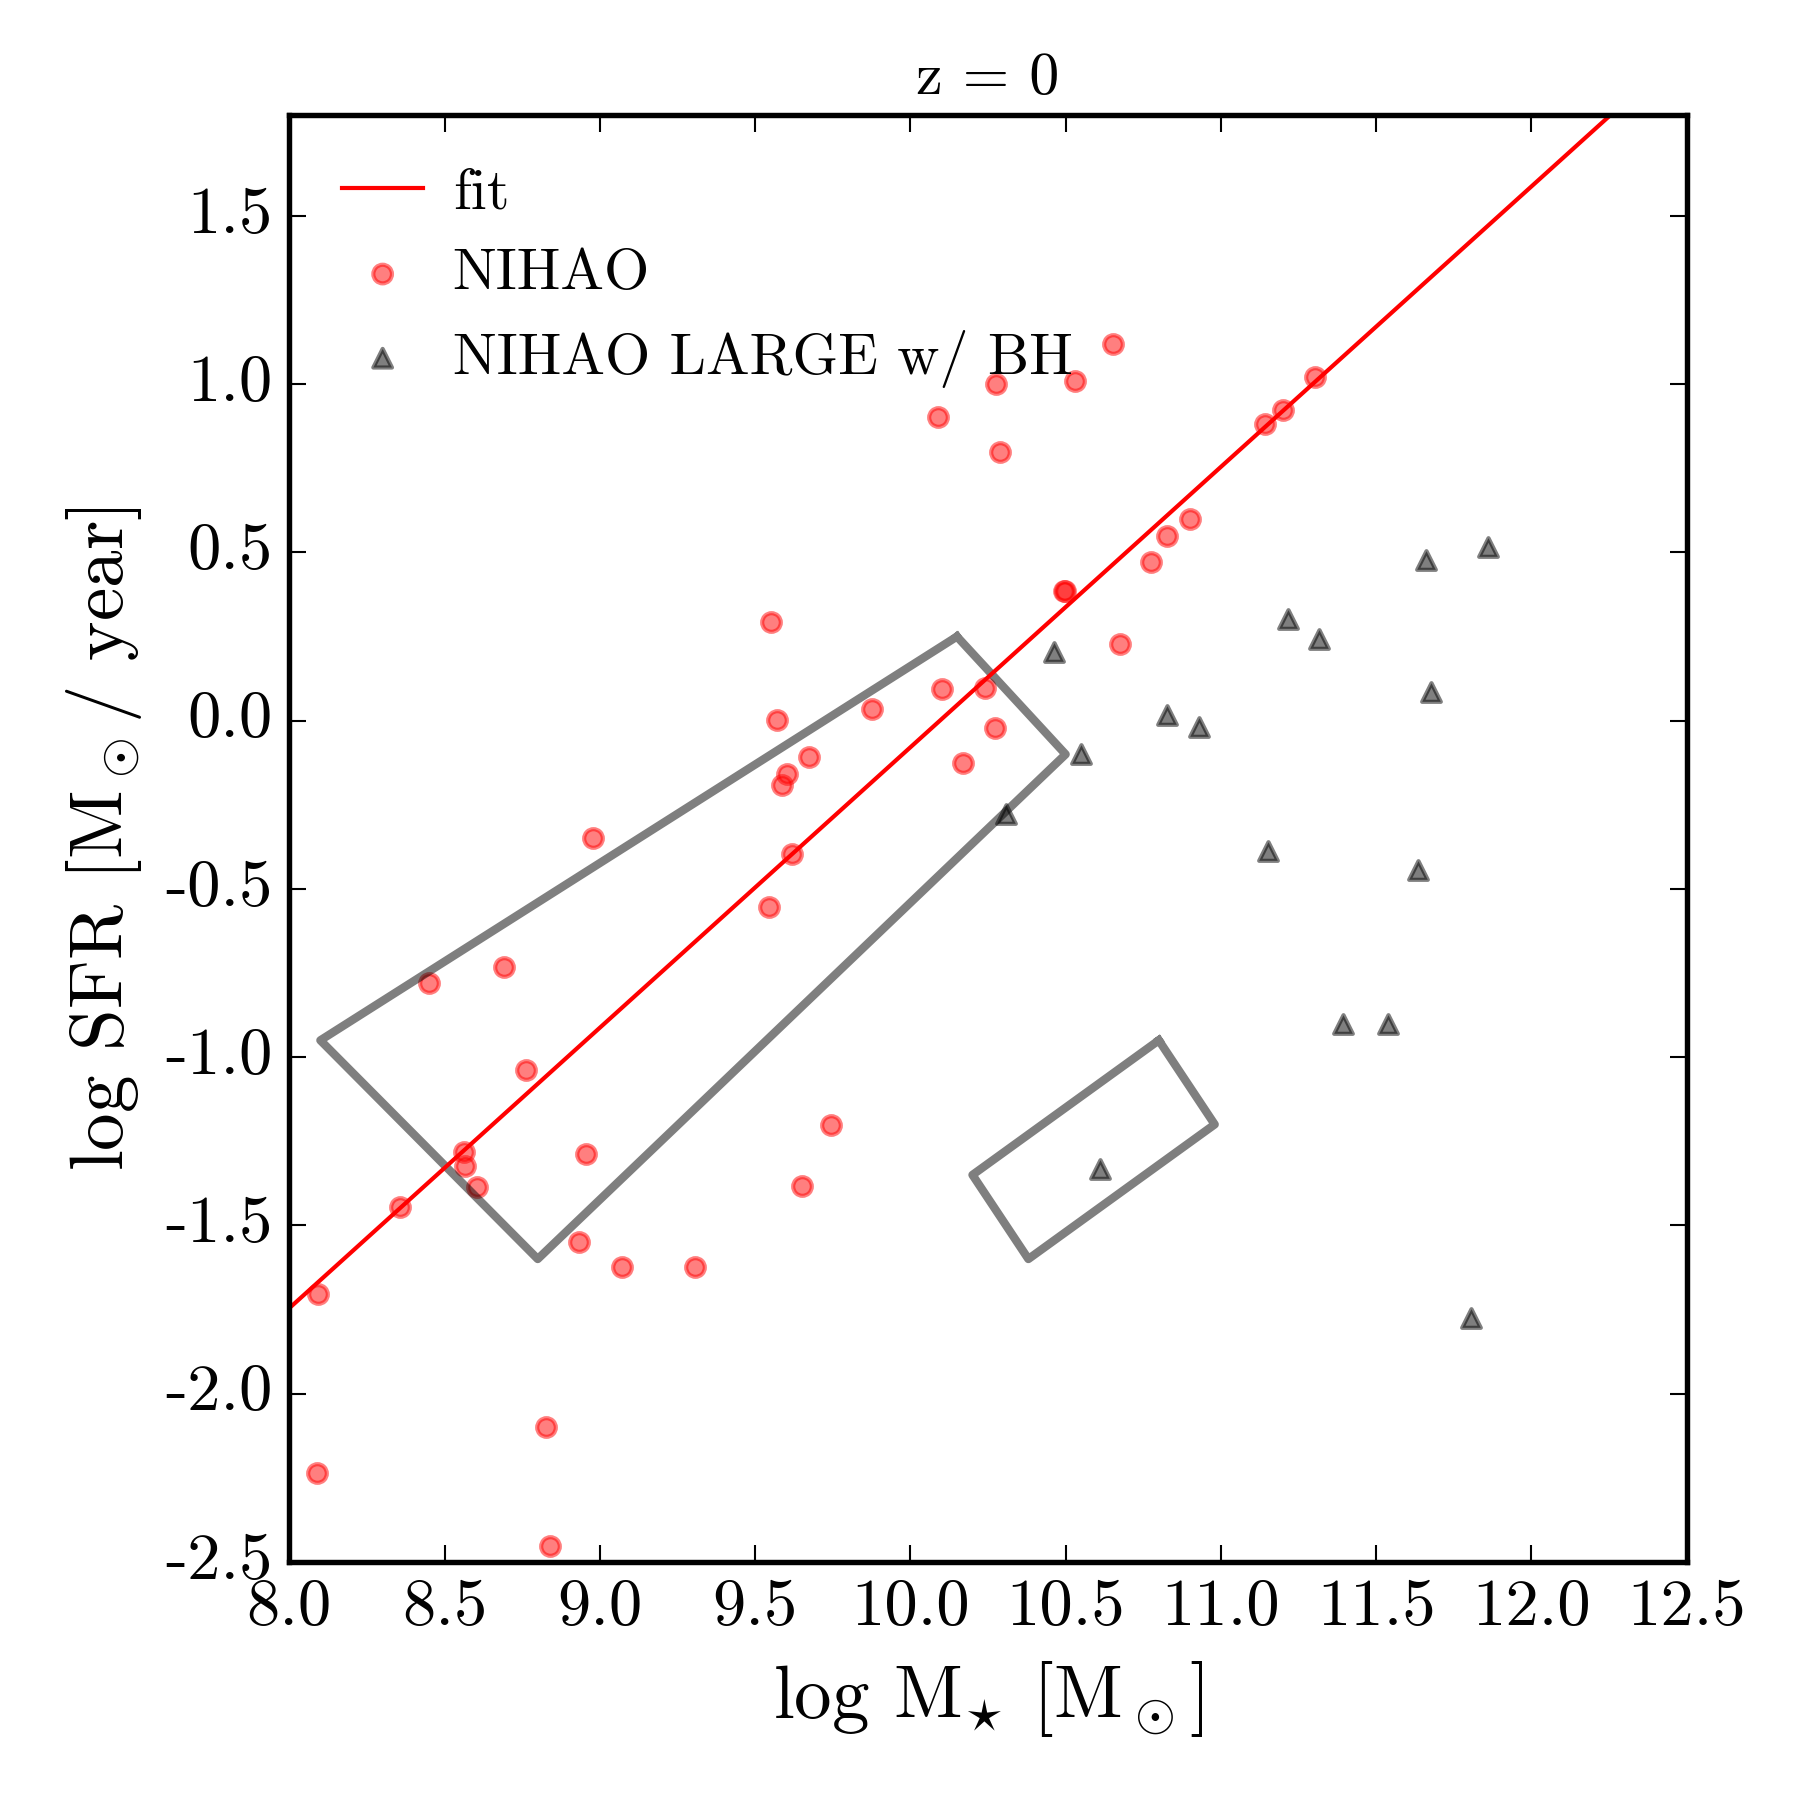
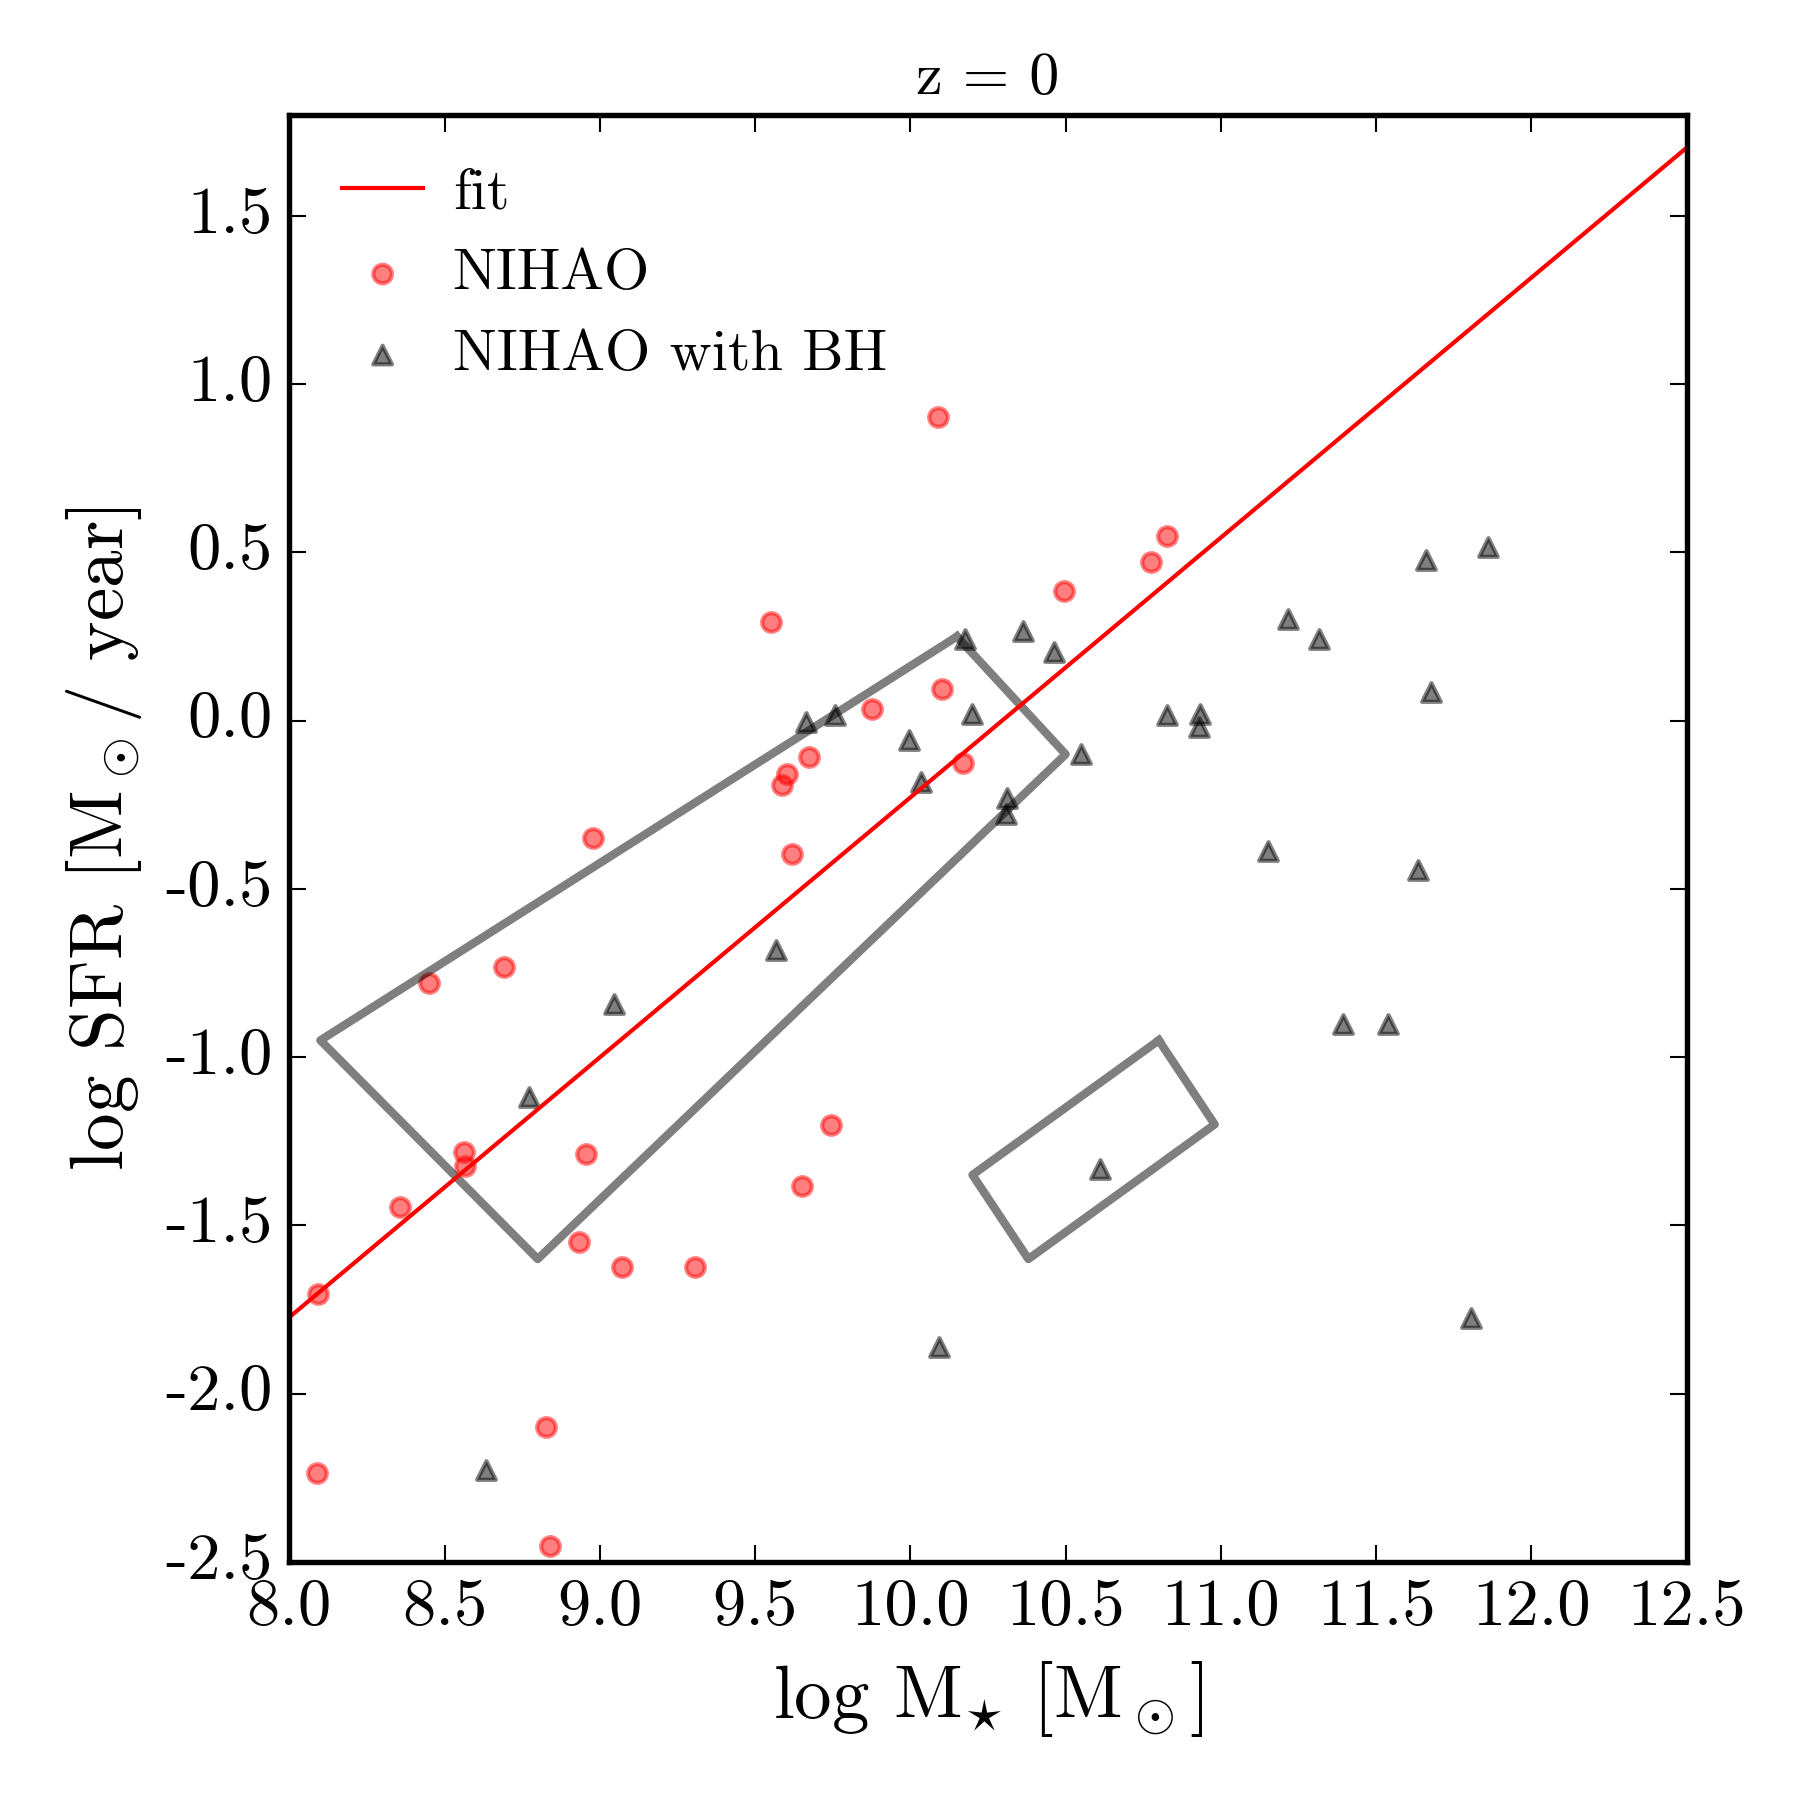
fix

diff --git a/1_mssfrLogBefore.py b/1_mssfrLogBefore.py
@@ -34,13 +34,28 @@ mpl.rcParams['axes.unicode_minus']=False
 #sfrArray, mStarArray = pickle.load(open("pickles/sfrAndMstarArray.pkl", "rb"))
 galDict = pickle.load(open("pickles/ALLjanNEW_NIHAOproperties.pkl", "rb"))
 galDictEll = pickle.load(open("pickles/jsonAGN_ELL_NIHAOproperties.pkl", "rb"))
+galDictBH = pickle.load(open("pickles/jsonNIHAO_BHproperties.pkl", "rb"))
 sfr = []
 mstar = []
 sfrEll = []
 mstarEll = []
 
+
+BHsuccessful = []
+
 print(len(galDict.keys()))
+for g in galDictBH.keys():
+    try:
+        propDict = galDictBH[g]
+        z = propDict['z']
+        sfrEll.append(propDict['sfr'][-1])
+        mstarEll.append(propDict['ms'][-1])
+        BHsuccessful.append(g)
+    except:
+        continue
 for g in galDict.keys():
+    if g in BHsuccessful:
+        continue
     propDict = galDict[g]
     z = propDict['z']
     sfr.append(propDict['sfr'][-1])
@@ -106,7 +121,7 @@ plt.plot(x,y, '-', color='k', linewidth=2, alpha = 0.5)
 
 #plt.scatter(mStarArray, sfrArray, color='b', alpha=0.5)
 plt.scatter(logmstar, logsfr, color='r', alpha=0.5, label="NIHAO")
-plt.scatter(np.log10(mstarEll), np.log10(sfrEll), color ='k', alpha=0.5, marker="^", label="NIHAO LARGE w/ BH")
+plt.scatter(np.log10(mstarEll), np.log10(sfrEll), color ='k', alpha=0.5, marker="^", label="NIHAO with BH")
 
 fit_vals = np.asarray([6.0, 13])
 #fit = SFR0*((fit_vals/10**10)**slope)
